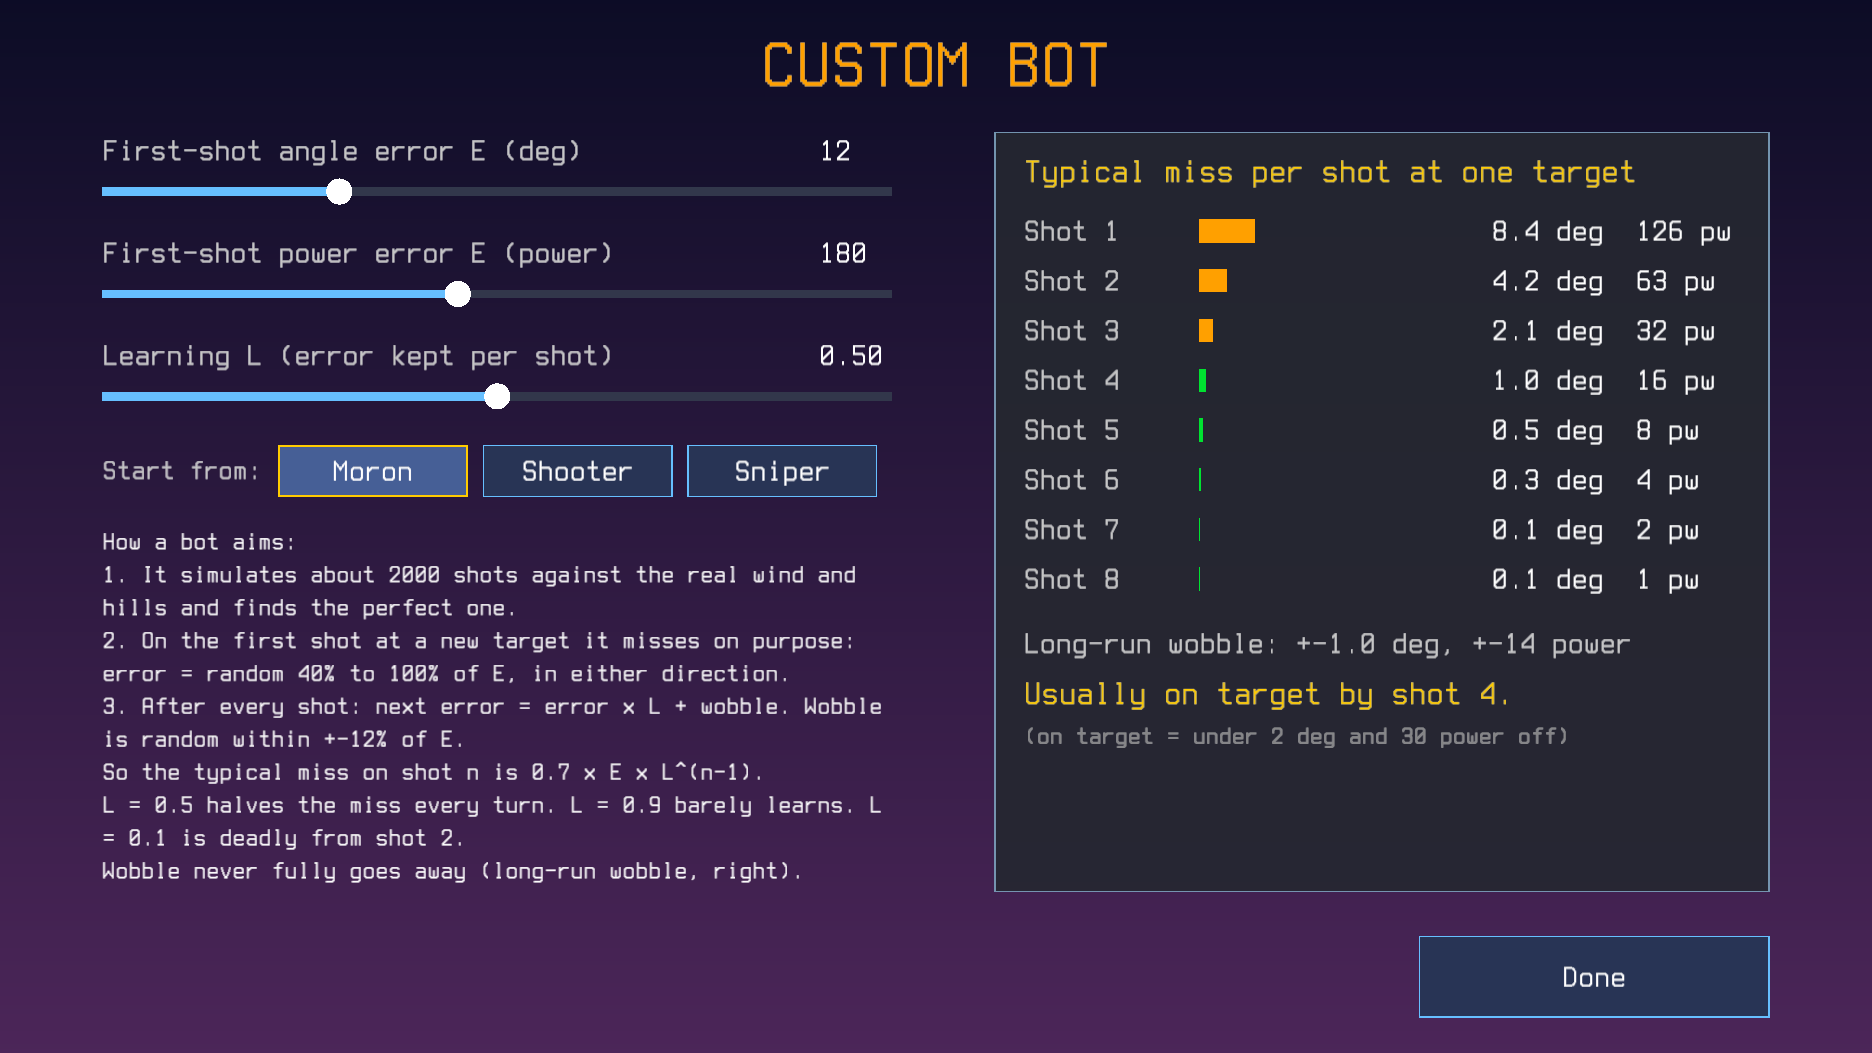
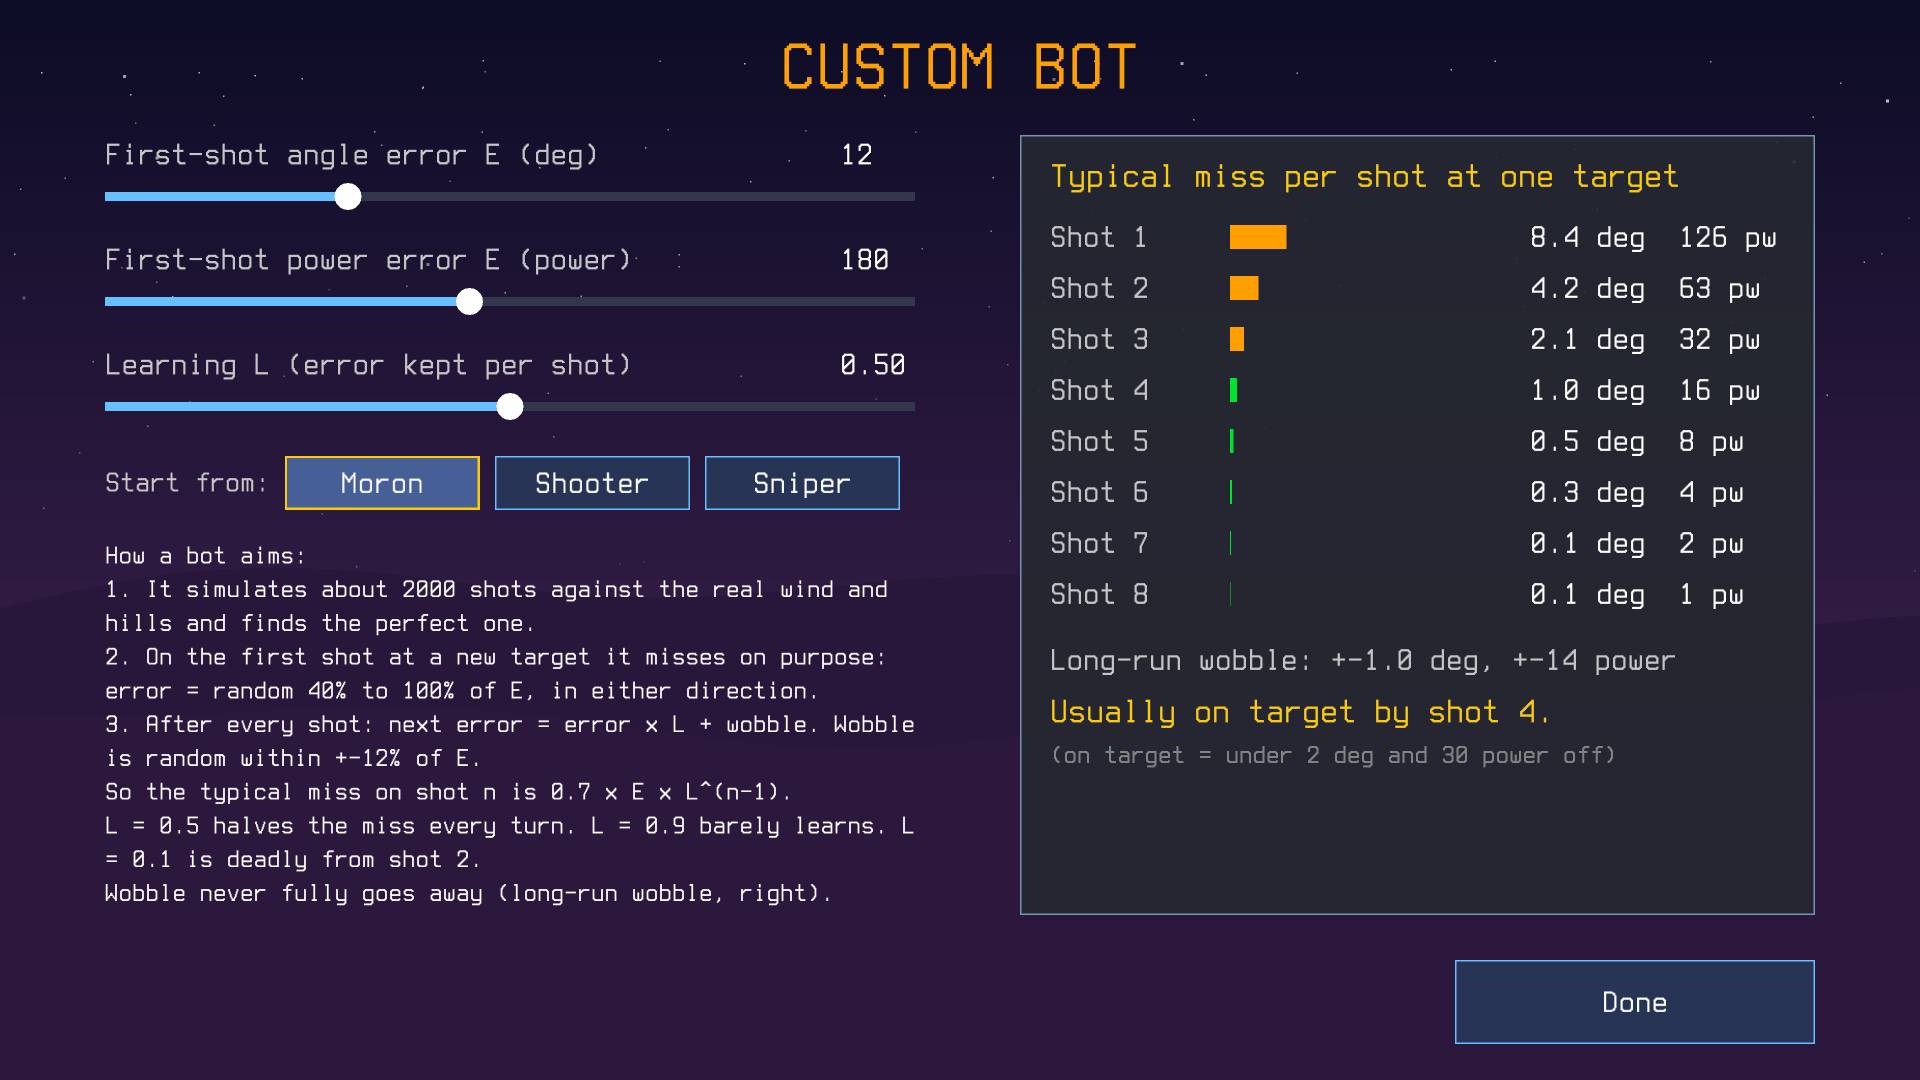
feat(world): sky scenery: stars, sun, clouds and far hills (#75)
Each sky gets a still, subtle backdrop. Decoration only: nothing in it
takes part in the game.

- Night: 140 stars, more of them higher up, fading towards the horizon.
Also shows behind the menus.
- Sunset: a big low sun partly behind the far hills.
- Day: a pale sun and four soft clouds (opaque puffs in a 35%
sky-to-white blend, so overlaps don't show).
- Suns glow out to three times their radius in 16 faint steps.
- Every sky: two rows of far hills in the sky's own colour at their
height, 8% and 14% darker, so they stay in the distance and don't read
as terrain.
- Drawn in screen coordinates squeezed into any rect, so the setup
preview shows the same scenery.

Docs: both guides mention the scenery; DEVELOPMENT.md has the numbers.
README screenshots are retaken with the new ground and sky.

diff --git a/src/world.rs b/src/world.rs
@@ -215,7 +215,129 @@ impl Sky {
                 c,
             );
         }
+        self.draw_details(r, top, bottom);
     }
+
+    /// Stars, the sun, clouds and far hills, all still and faint, drawn in screen coordinates squeezed into `r`.
+    fn draw_details(self, area: Rect, top: Color, bottom: Color) {
+        let scale = area.w / WIDTH as f32;
+        let at = |x: f32, y: f32| vec2(area.x + x * scale, area.y + y * area.h / HEIGHT);
+        // The sky's own colour at screen height `y`, blended `amount` of the way towards `to`.
+        let sky = |y: f32, to: Color, amount: f32| {
+            let frac = (y / HEIGHT).clamp(0.0, 1.0);
+            let blend = |a: f32, b: f32, o: f32| {
+                let v = a + (b - a) * frac;
+                v + (o - v) * amount
+            };
+            Color::new(
+                blend(top.r, bottom.r, to.r),
+                blend(top.g, bottom.g, to.g),
+                blend(top.b, bottom.b, to.b),
+                1.0,
+            )
+        };
+        match self {
+            Sky::Night | Sky::Random => {
+                for i in 0..140 {
+                    let (x, y) = (
+                        hash(i, 1) * WIDTH as f32,
+                        40.0 + hash(i, 2).powf(1.6) * 420.0,
+                    );
+                    // Fewer and fainter stars towards the horizon.
+                    let a = (0.25 + 0.55 * hash(i, 3)) * (1.0 - y / 520.0);
+                    let size = if hash(i, 4) > 0.9 { 2.0 } else { 1.0 };
+                    let p = at(x, y);
+                    draw_rectangle(
+                        p.x,
+                        p.y,
+                        size * scale.max(0.5),
+                        size * scale.max(0.5),
+                        Color::new(1.0, 1.0, 0.95, a),
+                    );
+                }
+            }
+            Sky::Sunset => {
+                // A big low sun, partly behind the far hills, with a soft glow.
+                draw_sun(
+                    at(900.0, 455.0),
+                    40.0 * scale,
+                    Color::new(1.0, 0.8, 0.5, 1.0),
+                    0.03,
+                );
+            }
+            Sky::Day => {
+                draw_sun(
+                    at(1010.0, 150.0),
+                    26.0 * scale,
+                    Color::new(1.0, 0.98, 0.86, 1.0),
+                    0.02,
+                );
+                for (cx, cy, w) in [
+                    (210.0, 170.0, 1.0),
+                    (560.0, 115.0, 0.7),
+                    (760.0, 250.0, 0.85),
+                    (1180.0, 300.0, 0.6),
+                ] {
+                    draw_cloud(at, scale, cx, cy, w, sky(cy, WHITE, 0.35));
+                }
+            }
+        }
+        // Two rows of far hills in the colours of the sky: scenery only, nothing hits them.
+        for (row, (base, height, shade)) in [(440.0, 70.0, 0.08), (500.0, 55.0, 0.14)]
+            .into_iter()
+            .enumerate()
+        {
+            // A touch darker than the sky behind the hilltops, so they stay in the distance.
+            let c = sky(base - height, BLACK, shade);
+            let phase = row as f32 * 2.7;
+            let step = 4.0;
+            let mut x = 0.0;
+            while x < WIDTH as f32 {
+                let y = base
+                    - height
+                        * (0.5
+                            + 0.3 * (x * 0.004 + phase).sin()
+                            + 0.2 * (x * 0.011 + phase * 1.7).sin());
+                let p = at(x, y);
+                let bottom_edge = at(x, HEIGHT);
+                draw_rectangle(p.x, p.y, step * scale + 0.5, bottom_edge.y - p.y, c);
+                x += step;
+            }
+        }
+    }
+}
+
+/// A soft cloud of overlapping puffs centred at (`x`, `y`), `size` times the full size.
+fn draw_cloud(at: impl Fn(f32, f32) -> Vec2, scale: f32, x: f32, y: f32, size: f32, color: Color) {
+    let puffs = [
+        (-60.0, 8.0, 26.0),
+        (-25.0, -6.0, 34.0),
+        (15.0, -12.0, 38.0),
+        (55.0, 2.0, 28.0),
+        (85.0, 10.0, 20.0),
+    ];
+    for (dx, dy, radius) in puffs {
+        let puff = at(x + dx * size, y + dy * size);
+        draw_circle(puff.x, puff.y, radius * size * scale, color);
+    }
+}
+
+/// A sun of `radius` at `p` in `color`, with a glow fading out over twice its size in many faint steps.
+fn draw_sun(p: Vec2, radius: f32, color: Color, glow: f32) {
+    for k in (1..=16).rev() {
+        let c = Color { a: glow, ..color };
+        draw_circle(p.x, p.y, radius * (1.0 + k as f32 / 8.0), c);
+    }
+    draw_circle(p.x, p.y, radius, color);
+}
+
+/// A fixed pseudo-random number in 0..1 for (`i`, `salt`), so the sky looks the same every frame.
+fn hash(i: u32, salt: u32) -> f32 {
+    let mut n = i.wrapping_mul(0x9E37_79B1) ^ salt.wrapping_mul(0x85EB_CA77);
+    n ^= n >> 15;
+    n = n.wrapping_mul(0x2C1B_3C6D);
+    n ^= n >> 12;
+    (n & 0xFFFF) as f32 / 65_536.0
 }
 
 #[cfg(test)]

diff --git a/docs/DEVELOPMENT.md b/docs/DEVELOPMENT.md
@@ -169,6 +169,19 @@ pad, a landslide). Each terrain type has a palette of top edge, topsoil and deep
 
 The look is saved with the terrain, so a resumed game looks the same. Older saves show as Rolling hills.
 
+### Sky scenery
+
+Drawn every frame behind the ground, still and in fixed places, so the same sky always looks the same (also in the setup
+preview and, for Night, behind the menus). Nothing in it takes part in the game.
+
+- Night: 140 stars between y 40 and 460, more of them higher up, fading towards the horizon; one in ten is 2 px.
+- Sunset: a sun of radius 40 at (900, 455), partly behind the far hills.
+- Day: a sun of radius 26 at (1010, 150) and four clouds of five overlapping puffs, a 35% blend of the sky towards
+  white.
+- Suns have a glow out to three times their radius, in 16 faint steps.
+- Two rows of far hills (tops around y 370 to 440 and 445 to 500) in the sky's own colour at their height, 8% and 14%
+  darker.
+
 ### Damage
 
 - A blast hits every tank within `radius + 12` px: full damage at the centre, down to 30% at the edge.
@@ -280,7 +293,8 @@ The README's screenshots in `docs/screenshots/` come from `--screen <name> --sho
 `arsenal` (saved as `battle.png`), `menu`, `shop`, `setup` and `custom` (saved as `custom-bot.png`). A shot holds only
 the 16:9 game area, whatever the window's shape. Build with `SCORCH_BUILD_VERSION=<release>` so the corner shows a plain
 version (then use a profile with `"check_updates": false`, or the menu asks about updates), regenerate them when screens
-change, and shrink them with `oxipng -o 4 --strip safe`.
+change. Take them fullscreen (`"fullscreen": true` in the profile) on a 4K screen, scale them down to 1920x1080
+(`magick <file> -filter Box -resize 1920x1080 <file>`) and shrink them with `oxipng -o 4 --strip safe`.
 
 ## Font
 

diff --git a/docs/GUIDE.uk.md b/docs/GUIDE.uk.md
@@ -310,6 +310,9 @@ Scorch - покрокова артилерійська гра, данина *Sco
 рівнина вкрита травою, а каньйон - шари червоного пісковику. Що глибше, то темніша земля, тож у вирвах видно, що під
 поверхнею.
 
+Кожне небо має свій краєвид: зорі вночі, велике низьке сонце на заході, сонце й кілька хмар удень і бліді далекі пагорби
+на обрії. Це лише тло: снаряди пролітають крізь нього.
+
 ## Коли раунд затягується
 
 - **Лишилися тільки боти:** коли в раунді немає жодного танка-людини, він іде зі швидкістю «лише боти» (типово 4x) і

diff --git a/docs/GUIDE.md b/docs/GUIDE.md
@@ -310,6 +310,9 @@ Each terrain has its own look: rolling hills are green over brown earth, mountai
 highest peaks, flatlands are grassy, and the canyon is red sandstone in layers. The ground gets darker the deeper it
 goes, so craters show what's underneath.
 
+Each sky has its own scenery: stars at night, a big low sun at sunset, the sun and a few clouds by day, and faint far
+hills on the horizon. It's only a backdrop: shots fly straight through it.
+
 ## When a round drags on
 
 - **Only bots left:** once no human tank is in the round, it plays at the bots-only speed (4x by default) and shows
